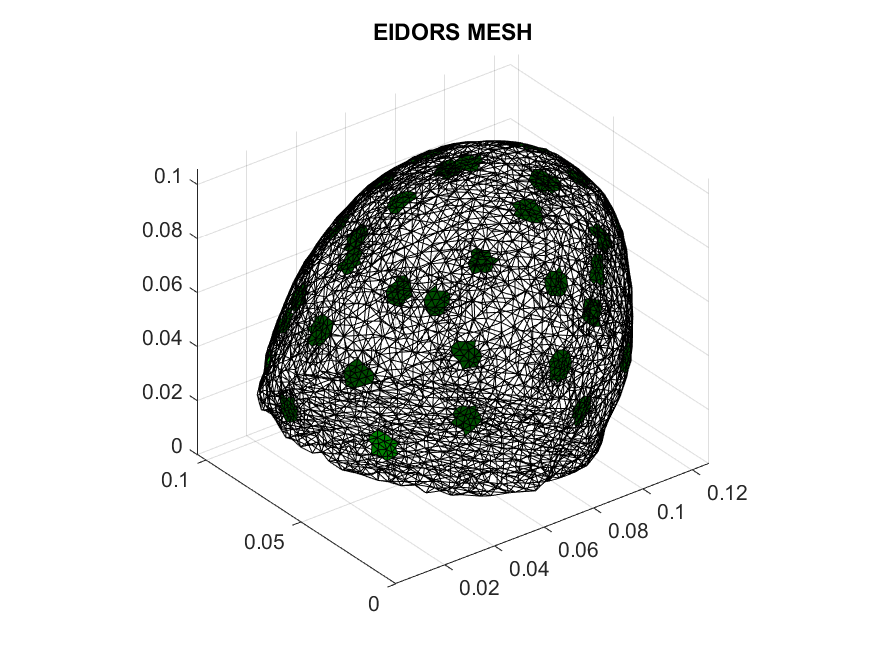
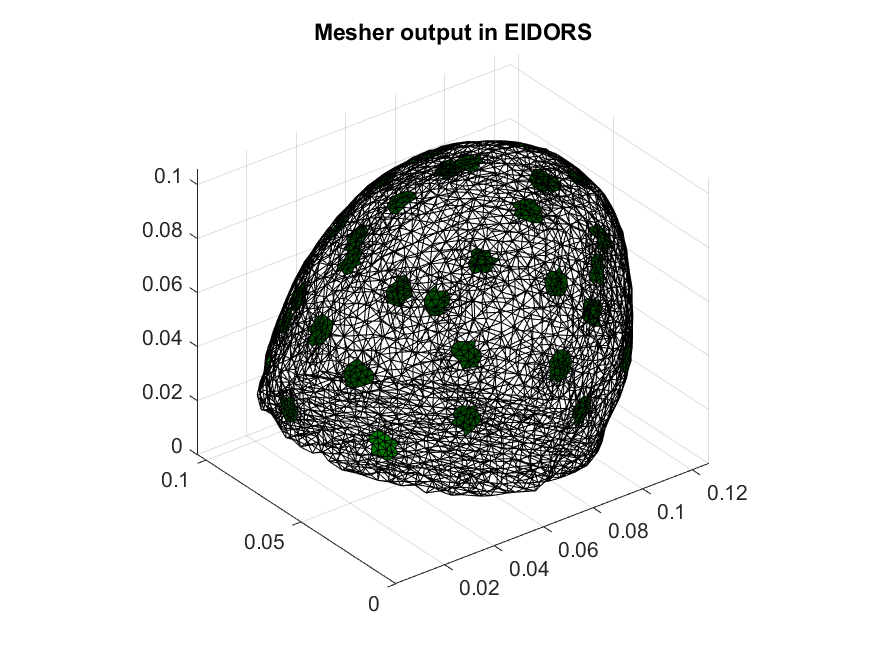
more documentation for EIDORS example

diff --git a/examples/EIDORS/eidors_example.m b/examples/EIDORS/eidors_example.m
@@ -75,19 +75,17 @@ MDL.elems = Mesh.Tetra;
 MDL.boundary = srf;
 
 %find ground node
-
 gnd_dist=sqrt(sum((Mesh.Nodes - Mesh.gnd_pos).^2,2));
 [~, gnd_node] = min(gnd_dist);
 MDL.gnd_node = gnd_node;
 
-%% do electrodes 
+% Electrodes 
 
 % find nodes on the suface within electrode radius 
 z_contact = 200;
 elec_radius = .006; %in meters
 
 srf_idx=unique(srf(:));
-
 srf_nodes=Mesh.Nodes(srf_idx,:);
 
 for iElec = 1:size(Mesh.elec_pos,1)
@@ -103,14 +101,20 @@ MDL.jacobian=       'eidors_default';
 MDL.system_mat=     'eidors_default';
 MDL.normalize_measurements = 0;
 
-%% Stimulation pattern
+figure
+show_fem(MDL)
+title('Mesher output in EIDORS');
+saveas(gcf,'figures/EIDORS_FEM.png');
+%% Forward model settings
+
+% Convert text file to EIDORS stim patterns
 
 [stim, meas_sel] = mk_stim_patterns( 32,1,'{op}','{op}');
 
 MDL.stimulation=stim;
 
 %%
-show_fem(MDL)
+
 valid_fwd_model(MDL)
 
 

diff --git a/examples/EIDORS/readme.md b/examples/EIDORS/readme.md
@@ -1,3 +1,24 @@
 # Read MESHER output into EIDORS
 
-[EIDORS](http://eidors3d.sourceforge.net/) is the most common EIT software suite, which offers some meshing capabilities through Netgen and Distmesh. 
+[EIDORS](http://eidors3d.sourceforge.net/) is the most common EIT software suite, which offers some meshing capabilities through Netgen and Distmesh. EIDORS is based on MATLAB/Octave and a full example is given in `eidors_example.m`.
+
+### Loading mesh
+
+First call MESHER to create a low resolution neonatal head mesh. If you are using >1 mln elements then [PEITS](https://github.com/EIT-team/PEITS) probably better suited.
+
+```bash
+../../bin/mesher -i ../neonatescalp/NNscalp.inr -e ../neonatescalp/NNscalp_elecINRpos.txt -p NNEIDORS_param.txt -d output/ -o NNEIDORS
+```
+
+EIDORS contains a number of useful utilities to create a valid EIDORS FEM object, and this code is based on `mk_fmdl_from_nodes.m`. EIDORS requires:
+
+- Nodes and Verticies
+- Surface faces
+- Ground node
+- Electrode nodes
+
+Once these have been definied we can use the EIDORS function `show_fem(MDL)` to plot the mesh
+
+![Mesh in EIDORS](figures/EIDORS_FEM.png)
+
+### Running forward solution
